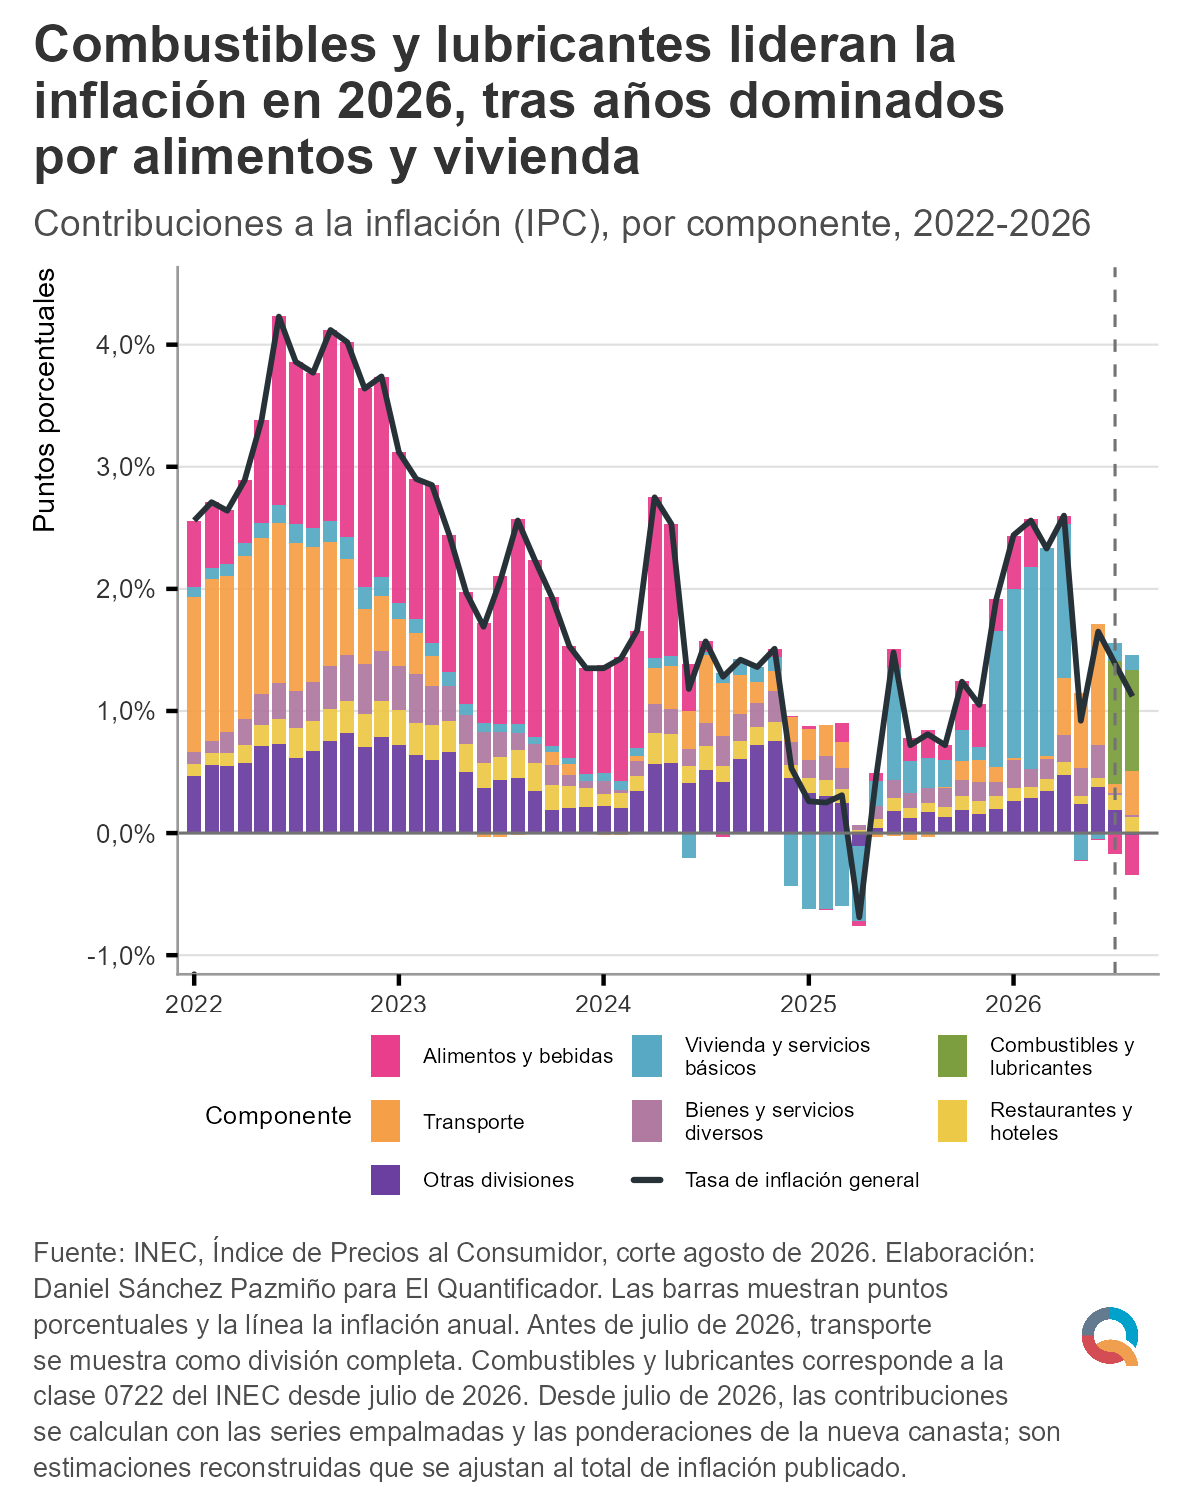
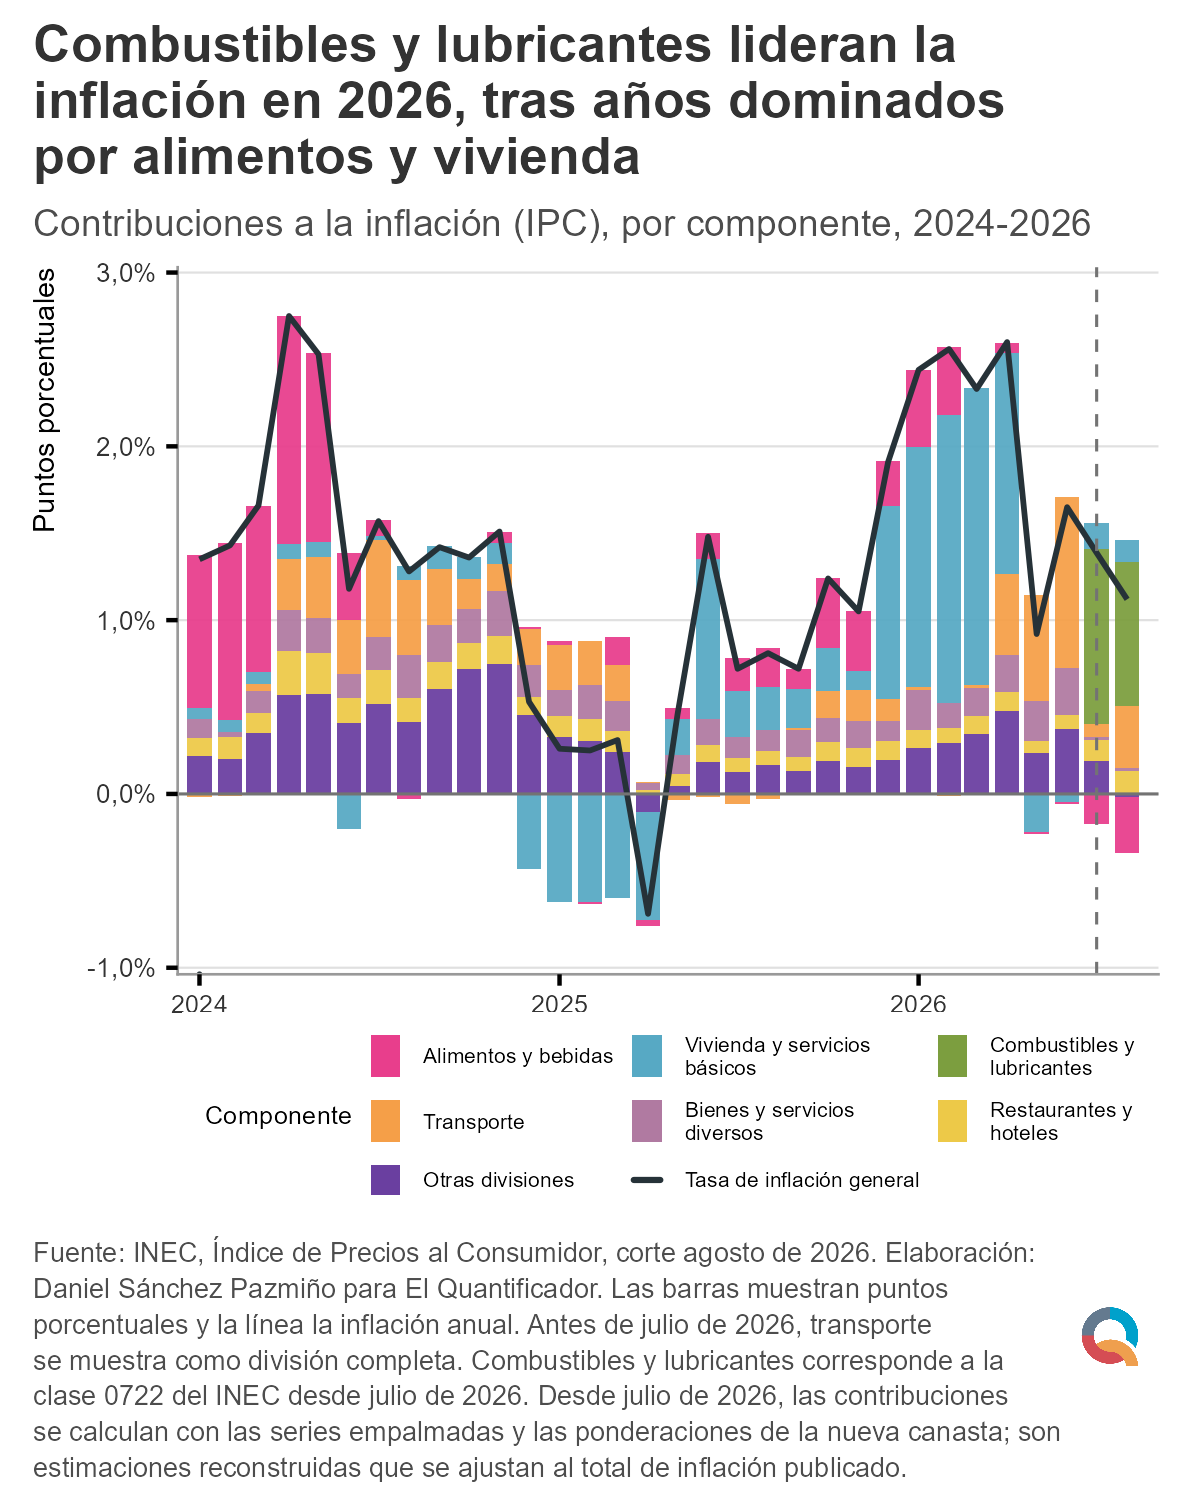
Start inflation chart in January 2024

diff --git a/data/sources/ipc_inflacion_contribuciones.md b/data/sources/ipc_inflacion_contribuciones.md
@@ -10,7 +10,7 @@ La fuente oficial es <https://www.ecuadorencifras.gob.ec/indice-de-precios-al-co
 
 ## Método
 
-El gráfico cubre enero de 2022 a agosto de 2026. Se muestran las divisiones 01, 04, 07, 11 y 12, y se agrupan las demás en `Otras divisiones`.
+El gráfico cubre enero de 2024 a agosto de 2026. Se muestran las divisiones 01, 04, 07, 11 y 12, y se agrupan las demás en `Otras divisiones`.
 
 Hasta junio de 2026, transporte se muestra como división completa. `Combustibles y lubricantes` corresponde a la clase 0722 del INEC y se desagrega únicamente desde julio de 2026, cuando entra la nueva canasta.
 
